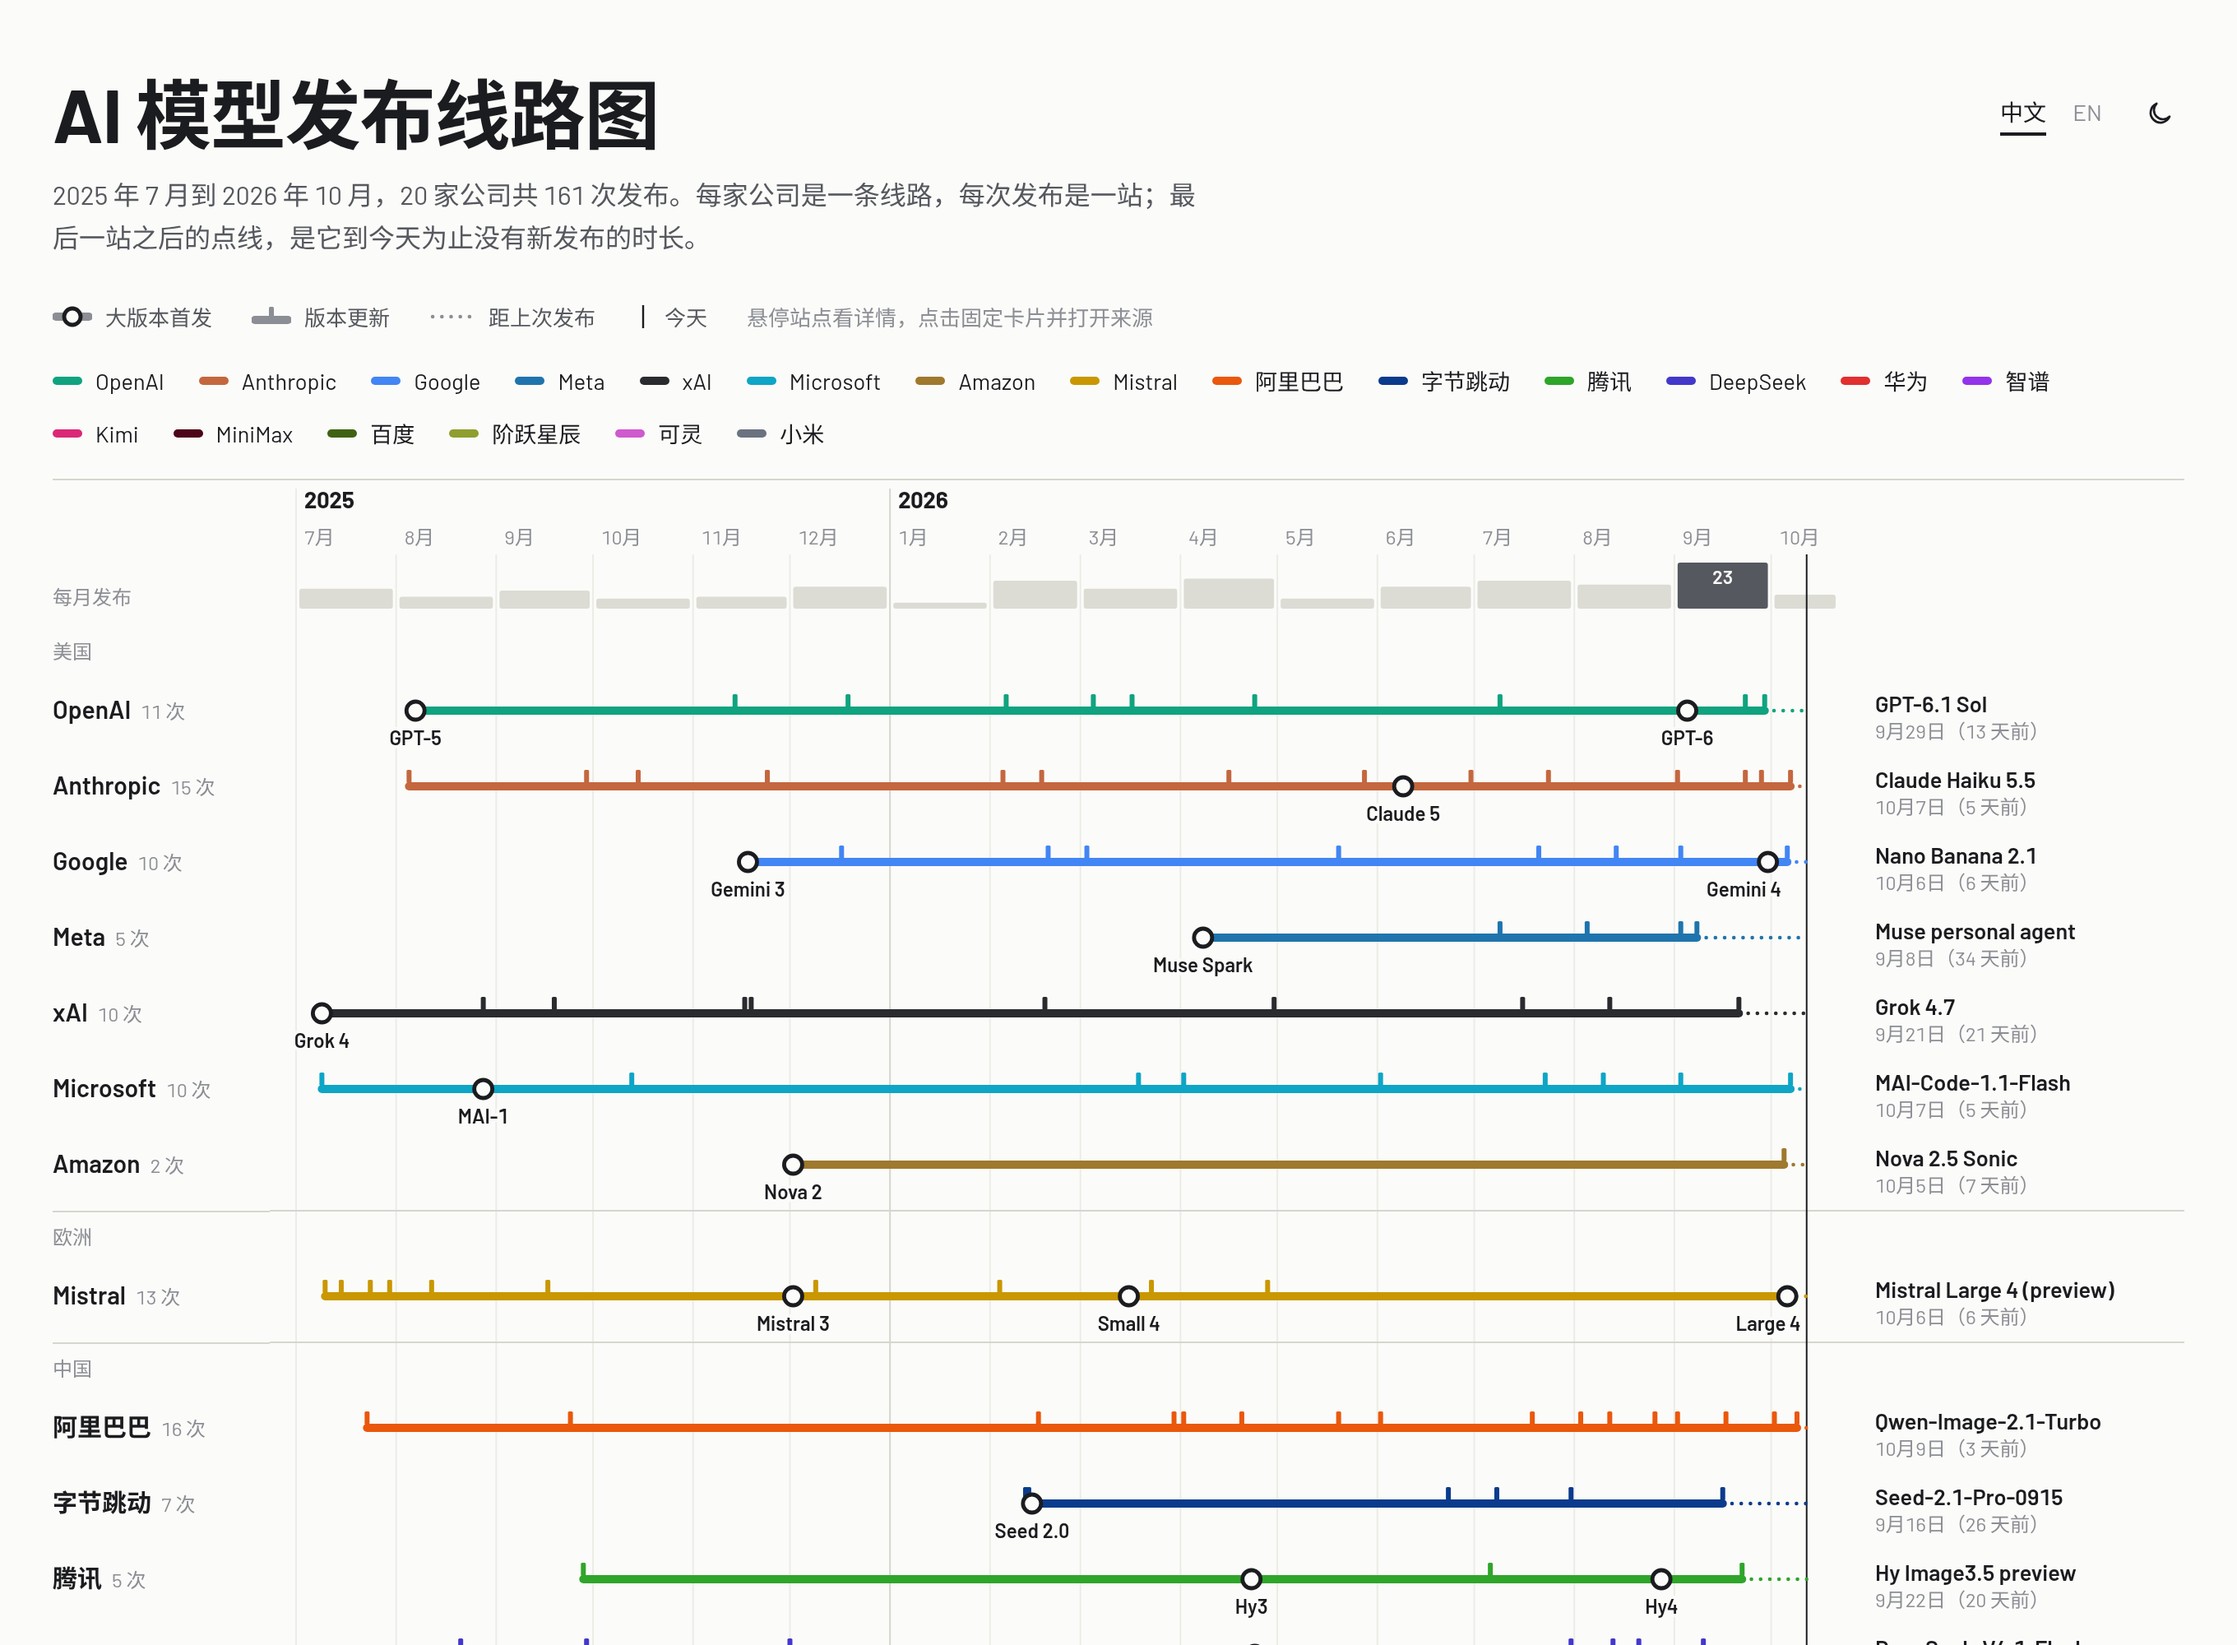
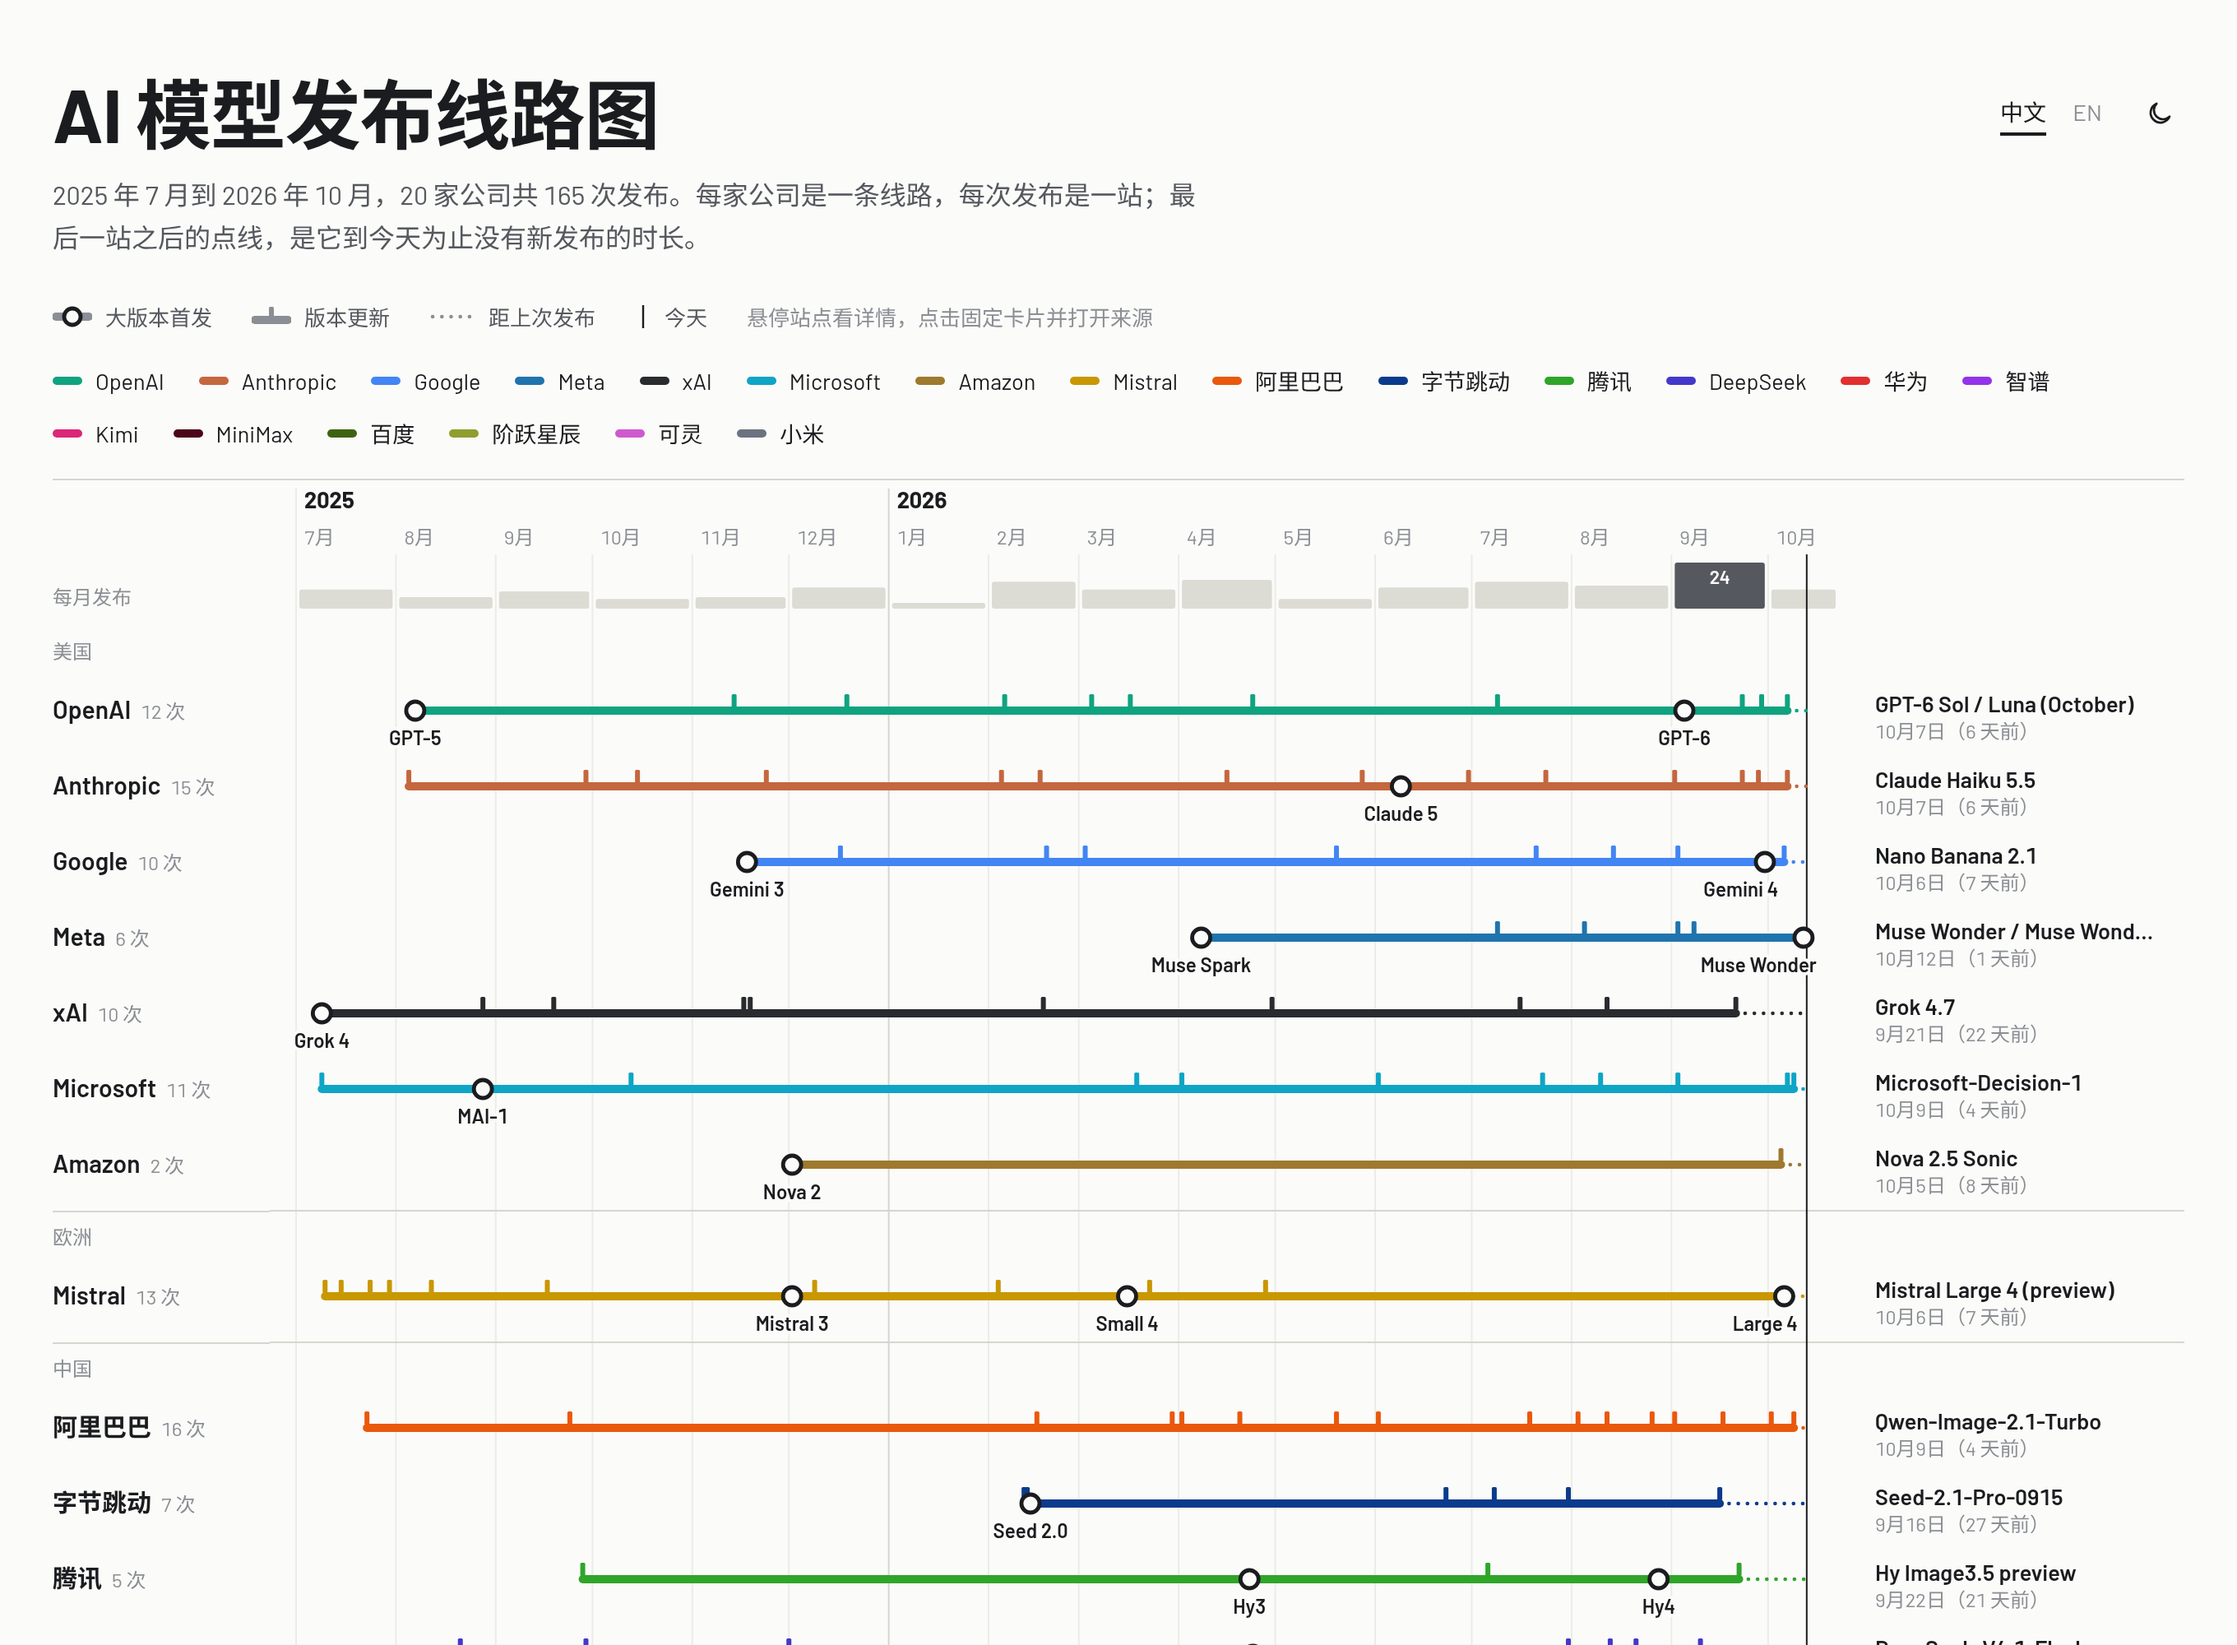
Auto-update: add Muse Wonder, GPT-6 Sol/Luna (October), Microsoft-Decision-1, MiniMax-M3.1-Flash-Preview; official sources for 6 entries

diff --git a/index.html b/index.html
@@ -154,6 +154,7 @@ const DATA=[
 {company:"OpenAI",model:"GPT-6 Astra",date:"2026-09-05",source:"https://openai.com/index/gpt-6-astra/"},
 {company:"OpenAI",model:"GPT-6 Sol / Luna",date:"2026-09-23",source:"https://openai.com/index/introducing-gpt-6-sol-and-luna/"},
 {company:"OpenAI",model:"GPT-6.1 Sol",date:"2026-09-29",source:"https://openai.com/index/introducing-gpt-6-1-sol/"},
+{company:"OpenAI",model:"GPT-6 Sol / Luna (October)",date:"2026-10-07",source:"https://openai.com/index/gpt-6-for-everyone/"},
 {company:"Anthropic",model:"Claude Opus 4.1",date:"2025-08-05",source:"https://www.anthropic.com/news/claude-opus-4-1"},
 {company:"Anthropic",model:"Claude Sonnet 4.5",date:"2025-09-29",source:"https://www.anthropic.com/news/claude-sonnet-4-5"},
 {company:"Anthropic",model:"Claude Haiku 4.5",date:"2025-10-15",source:"https://www.anthropic.com/news/claude-haiku-4-5"},
@@ -161,10 +162,10 @@ const DATA=[
 {company:"Anthropic",model:"Claude Opus 4.6",date:"2026-02-05",source:"https://www.anthropic.com/news/claude-opus-4-6"},
 {company:"Anthropic",model:"Claude Sonnet 4.6",date:"2026-02-17",source:"https://www.anthropic.com/news/claude-sonnet-4-6"},
 {company:"Anthropic",model:"Claude Opus 4.7",date:"2026-04-16",source:"https://www.anthropic.com/news/claude-opus-4-7"},
-{company:"Anthropic",model:"Claude Opus 4.8",date:"2026-05-28",source:MT},
+{company:"Anthropic",model:"Claude Opus 4.8",date:"2026-05-28",source:"https://www.anthropic.com/news/claude-opus-4-8"},
 {company:"Anthropic",model:"Claude Mythos 5 / Fable 5",date:"2026-06-09",source:MT},
-{company:"Anthropic",model:"Claude Sonnet 5",date:"2026-06-30",source:MT},
-{company:"Anthropic",model:"Claude Opus 5",date:"2026-07-24",source:MT},
+{company:"Anthropic",model:"Claude Sonnet 5",date:"2026-06-30",source:"https://www.anthropic.com/news/claude-sonnet-5"},
+{company:"Anthropic",model:"Claude Opus 5",date:"2026-07-24",source:"https://www.anthropic.com/news/claude-opus-5"},
 {company:"Anthropic",model:"Claude Fable 5.1",date:"2026-09-02",source:MT},
 {company:"Anthropic",model:"Claude Opus 5.5",date:"2026-09-23",source:MT},
 {company:"Anthropic",model:"Claude Sonnet 5.5",date:"2026-09-28",source:"https://www.anthropic.com/claude-sonnet-5-5"},
@@ -184,6 +185,7 @@ const DATA=[
 {company:"Meta",model:"Muse Spark 1.2",date:"2026-08-05",source:MT},
 {company:"Meta",model:"Muse Spark 1.3",date:"2026-09-03",source:MT},
 {company:"Meta",model:"Muse personal agent",date:"2026-09-08",source:"https://about.fb.com/news/2026/09/introducing-muse-personal-ai-agent/"},
+{company:"Meta",model:"Muse Wonder / Muse Wonder Full",date:"2026-10-12",source:"https://research.meta.ai/blog/muse-wonder"},
 {company:"阿里巴巴",model:"Qwen3-Coder",date:"2025-07-23",source:"https://qwenlm.github.io/blog/qwen3-coder/"},
 {company:"阿里巴巴",model:"Qwen3-Max",date:"2025-09-24",source:MT},
 {company:"阿里巴巴",model:"Qwen3.5-Plus",date:"2026-02-16",source:MT},
@@ -215,7 +217,7 @@ const DATA=[
 {company:"DeepSeek",model:"DeepSeek-V3.1",date:"2025-08-21",source:MT},
 {company:"DeepSeek",model:"DeepSeek-V3.2-Exp",date:"2025-09-29",source:"https://api-docs.deepseek.com/news/news250929"},
 {company:"DeepSeek",model:"DeepSeek-V3.2 / V3.2-Speciale",date:"2025-12-01",source:MT},
-{company:"DeepSeek",model:"DeepSeek-V4 Pro / Flash Preview",date:"2026-04-24",source:MT},
+{company:"DeepSeek",model:"DeepSeek-V4 Pro / Flash Preview",date:"2026-04-24",source:"https://api-docs.deepseek.com/news/news260424"},
 {company:"DeepSeek",model:"DeepSeek-V4 Flash",date:"2026-07-31",source:MT},
 {company:"DeepSeek",model:"DeepSeek-V4 Pro",date:"2026-08-13",source:MT},
 {company:"DeepSeek",model:"DeepSeek-V4 Flash Vision Exp",date:"2026-08-21",source:MT},
@@ -236,9 +238,9 @@ const DATA=[
 {company:"智谱",model:"GLM-5.3-FlashX",date:"2026-09-18",source:"https://finance.sina.com.cn/tech/digi/2026-09-18/doc-inisfprc3416049.shtml"},
 {company:"Kimi",model:"Kimi K2",date:"2025-07-11",source:"https://moonshotai.github.io/Kimi-K2/"},
 {company:"Kimi",model:"Kimi K2.5",date:"2026-01-27",source:"https://www.kimi.com/blog/kimi-k2-5"},
-{company:"Kimi",model:"Kimi K2.6",date:"2026-04-20",source:MT},
+{company:"Kimi",model:"Kimi K2.6",date:"2026-04-20",source:"https://www.kimi.com/blog/kimi-k2-6"},
 {company:"Kimi",model:"Kimi K2.7 Code",date:"2026-06-12",source:MT},
-{company:"Kimi",model:"Kimi K3",date:"2026-07-17",source:MT},
+{company:"Kimi",model:"Kimi K3",date:"2026-07-17",source:"https://www.kimi.com/blog/kimi-k3"},
 {company:"Kimi",model:"Kimi K2.8 Preview",date:"2026-09-11",source:MT},
 {company:"xAI",model:"Grok 4 / Grok 4 Heavy",date:"2025-07-09",source:"https://x.ai/news/grok-4"},
 {company:"xAI",model:"Grok Code Fast 1",date:"2025-08-28",source:"https://x.ai/news/grok-code-fast-1"},
@@ -260,6 +262,7 @@ const DATA=[
 {company:"Microsoft",model:"MAI-Image-2.6",date:"2026-08-10",source:"https://microsoft.ai/news/mai-image-2-6-launches-at-no-2-on-arena-ahead-of-google-meta-and-xai/"},
 {company:"Microsoft",model:"MAI-Transcribe-2",date:"2026-09-03",source:"https://microsoft.ai/news/mai-transcribe-2-is-the-fastest-most-accurate-and-cheapest-speech-recognition-model-in-the-world/"},
 {company:"Microsoft",model:"MAI-Code-1.1-Flash",date:"2026-10-07",source:"https://microsoft.ai/news/mai-code-1-1-flash-br-better-faster-at-a-quarter-of-the-cost/"},
+{company:"Microsoft",model:"Microsoft-Decision-1",date:"2026-10-09",source:"https://commandline.microsoft.com/microsoft-decision-1-model-foundry/"},
 {company:"Amazon",model:"Nova 2 Lite / Pro / Omni / Sonic",date:"2025-12-02",source:"https://www.aboutamazon.com/news/aws/aws-agentic-ai-amazon-bedrock-nova-models"},
 {company:"Amazon",model:"Nova 2.5 Sonic",date:"2026-10-05",source:"https://aws.amazon.com/about-aws/whats-new/2026/10/amazon-nova-2.5-sonic/"},
 {company:"Mistral",model:"Devstral Medium / Small 1.1",date:"2025-07-10",source:"https://docs.mistral.ai/resources/changelogs"},
@@ -282,6 +285,7 @@ const DATA=[
 {company:"MiniMax",model:"MiniMax-M2.7",date:"2026-03-18",source:"https://platform.minimaxi.com/docs/release-notes/models"},
 {company:"MiniMax",model:"MiniMax-M3",date:"2026-06-01",source:"https://www.minimax.io/blog/minimax-m3"},
 {company:"MiniMax",model:"MiniMax H3",date:"2026-07-31",source:"https://www.minimax.io/blog/minimax-h3"},
+{company:"MiniMax",model:"MiniMax-M3.1-Flash-Preview",date:"2026-09-27",source:"https://www.ithome.com/1/007/530.htm"},
 {company:"百度",model:"文心 X1.1",date:"2025-09-09",source:"https://home.baidu.com/home/index/news_detail/id/18038"},
 {company:"百度",model:"文心 5.0 Preview",date:"2025-11-13",source:"https://www.cnr.cn/bj/sijh/20251113/t20251113_527429007.shtml"},
 {company:"百度",model:"文心 5.0",date:"2026-01-22",source:"https://home.baidu.com/home/index/news_detail/id/18049"},
@@ -313,8 +317,8 @@ const LINES={"OpenAI":["#10a37f","#129673","us"],"Anthropic":["#c4673f","#c46b4b
 "MiniMax":["#4c0519","#fda4af","cn"],"百度":["#3f6212","#d9f99d","cn"],"阶跃星辰":["#8f9e2e","#b5c447","cn"],"可灵":["#cf59cf","#e58ae5","cn"],"小米":["#6b7280","#9ca3af","cn"]};
 const ORDER=Object.keys(LINES);
 // 大版本首发：画成换乘站并直接标注。规则是"该系列新整数版本号的第一次发布"，按需增删。
-const MAJOR={"GPT-5":"GPT-5","GPT-6 Astra":"GPT-6","Claude Mythos 5 / Fable 5":"Claude 5","Gemini 3.0 Pro":"Gemini 3","Gemini 4 Argon":"Gemini 4","Muse Spark":"Muse Spark","Seed 2.0":"Seed 2.0","Hy3 preview":"Hy3","Hy4 preview":"Hy4","DeepSeek-V4 Pro / Flash Preview":"V4","openPangu-2.0-Flash":"openPangu 2.0","GLM-5":"GLM-5","Kimi K2":"K2","Kimi K3":"K3","Grok 4 / Grok 4 Heavy":"Grok 4","MAI-1-preview / MAI-Voice-1":"MAI-1","Nova 2 Lite / Pro / Omni / Sonic":"Nova 2","Mistral Large 3 / Ministral 3":"Mistral 3","Mistral Small 4":"Small 4","Mistral Large 4 (preview)":"Large 4","MiniMax-M2":"M2","MiniMax-M3":"M3","文心 5.0 Preview":"文心 5","Step 3":"Step 3","Step 5 Preview":"Step 5","Kling 3.0 / 3.0 Omni":"Kling 3","Kling 4.0 / 4.0 Flash（抢先体验）":"Kling 4","MiMo-V2-Flash":"MiMo-V2"};
-const OFFICIAL=["x.ai","microsoft.ai","azure.microsoft.com","aboutamazon.com","aws.amazon.com","mistral.ai","docs.mistral.ai","minimax.io","platform.minimaxi.com","home.baidu.com","ernie.baidu.com","stepfun.com","ir.kuaishou.com","kling.ai","mimo.mi.com","openai.com","anthropic.com","blog.google","about.fb.com","ai.meta.com","qwenlm.github.io","help.aliyun.com","seed.bytedance.com","tencent.com","deepseek.com","hiascend.com","huawei.com","moonshotai.github.io","kimi.com"];
+const MAJOR={"GPT-5":"GPT-5","GPT-6 Astra":"GPT-6","Claude Mythos 5 / Fable 5":"Claude 5","Gemini 3.0 Pro":"Gemini 3","Gemini 4 Argon":"Gemini 4","Muse Spark":"Muse Spark","Muse Wonder / Muse Wonder Full":"Muse Wonder","Seed 2.0":"Seed 2.0","Hy3 preview":"Hy3","Hy4 preview":"Hy4","DeepSeek-V4 Pro / Flash Preview":"V4","openPangu-2.0-Flash":"openPangu 2.0","GLM-5":"GLM-5","Kimi K2":"K2","Kimi K3":"K3","Grok 4 / Grok 4 Heavy":"Grok 4","MAI-1-preview / MAI-Voice-1":"MAI-1","Nova 2 Lite / Pro / Omni / Sonic":"Nova 2","Mistral Large 3 / Ministral 3":"Mistral 3","Mistral Small 4":"Small 4","Mistral Large 4 (preview)":"Large 4","MiniMax-M2":"M2","MiniMax-M3":"M3","文心 5.0 Preview":"文心 5","Step 3":"Step 3","Step 5 Preview":"Step 5","Kling 3.0 / 3.0 Omni":"Kling 3","Kling 4.0 / 4.0 Flash（抢先体验）":"Kling 4","MiMo-V2-Flash":"MiMo-V2"};
+const OFFICIAL=["x.ai","microsoft.ai","azure.microsoft.com","aboutamazon.com","aws.amazon.com","mistral.ai","docs.mistral.ai","minimax.io","platform.minimaxi.com","home.baidu.com","ernie.baidu.com","stepfun.com","ir.kuaishou.com","kling.ai","mimo.mi.com","openai.com","anthropic.com","blog.google","about.fb.com","ai.meta.com","research.meta.ai","commandline.microsoft.com","qwenlm.github.io","help.aliyun.com","seed.bytedance.com","tencent.com","deepseek.com","hiascend.com","huawei.com","moonshotai.github.io","kimi.com"];
 const NAMES={zh:{},en:{"百度":"Baidu","阶跃星辰":"StepFun","可灵":"Kling","小米":"Xiaomi","阿里巴巴":"Alibaba","字节跳动":"ByteDance","腾讯":"Tencent","华为":"Huawei","智谱":"Zhipu AI"}};
 const EN_M=["Jan","Feb","Mar","Apr","May","Jun","Jul","Aug","Sep","Oct","Nov","Dec"];
 const I18N={
